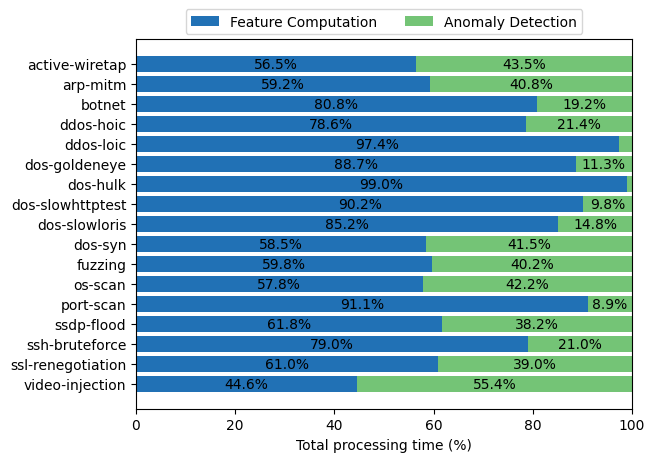
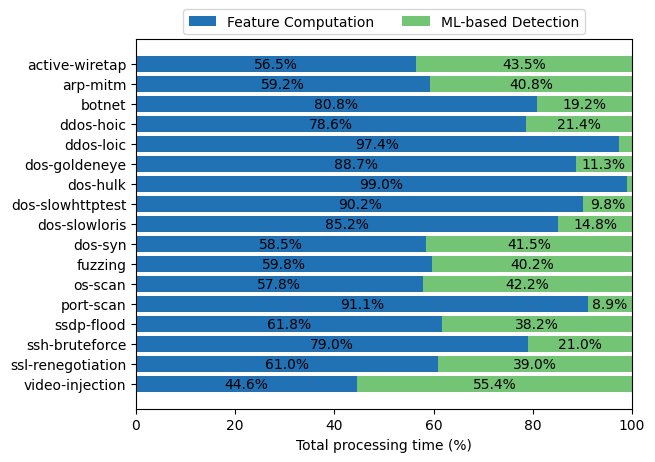
more plot modifications

Changed region(s): [[0.2748, 0.0303, 0.5802, 0.0606], [0.6107, 0.0303, 0.8855, 0.0606]]

diff --git a/testbed/plot-kitsune-fc-vs-ad.py b/testbed/plot-kitsune-fc-vs-ad.py
@@ -59,7 +59,7 @@ def gen_plot(data):
 	p = ax.barh(y_pos, dt_fes_perc, color=COLORS[0], label='Feature Computation')
 	ax.bar_label(p, labels=dt_fes_labels, label_type='center')
 
-	p = ax.barh(y_pos, dt_ads_perc, color=COLORS[1], label='Anomaly Detection', left=dt_fes_perc)
+	p = ax.barh(y_pos, dt_ads_perc, color=COLORS[1], label='ML-based Detection', left=dt_fes_perc)
 	ax.bar_label(p, labels=dt_ads_labels, label_type='center')
 
 	ax.set_yticks(y_pos, labels=attacks)
